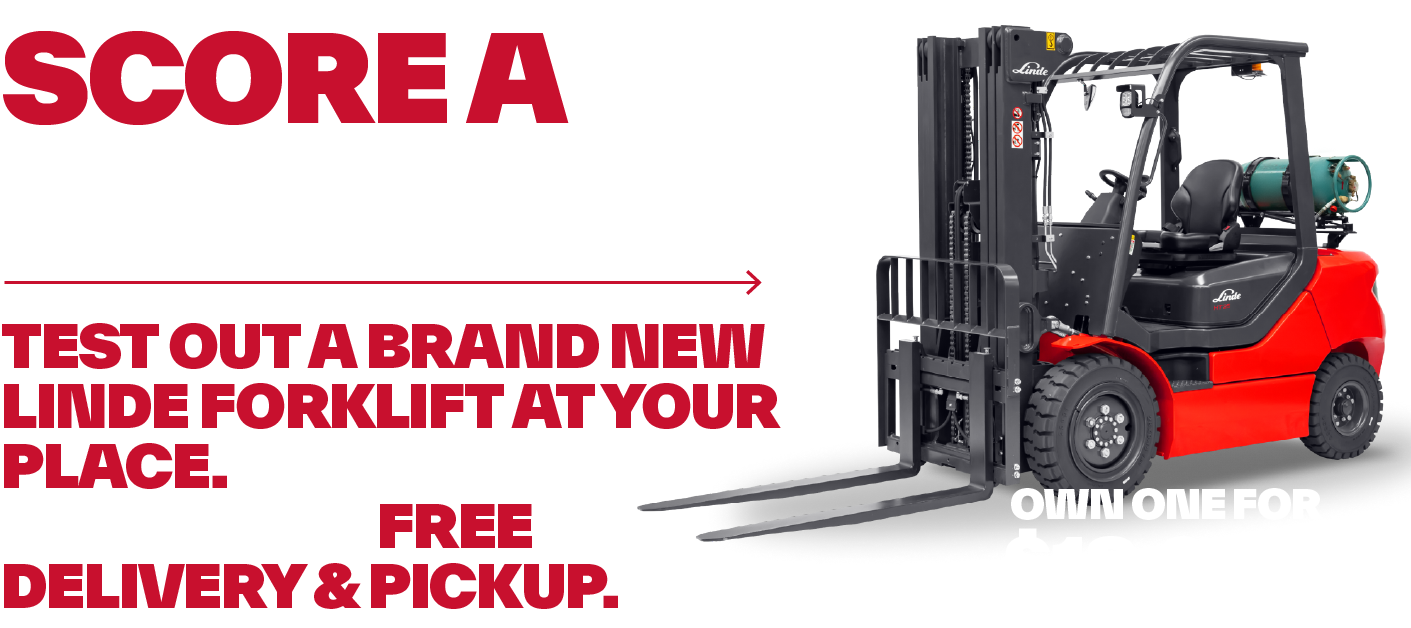
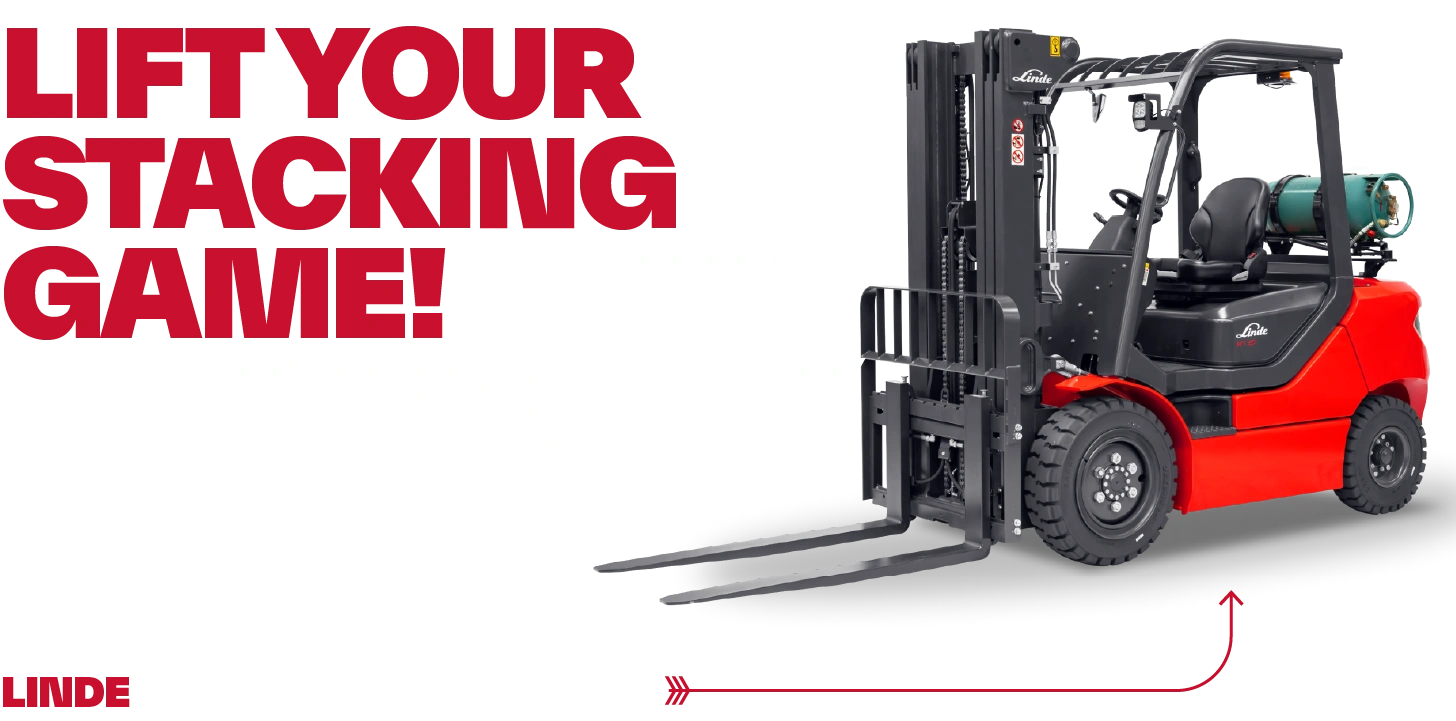
update free trial to price only offer

diff --git a/linde-free-trial.html b/linde-free-trial.html
@@ -160,9 +160,9 @@
                     <section class="semilargerSec rC cC" style=" padding-right: 0; z-index:1;">
                         <span class="spacer spacer15 m"></span>
                         <span class="spacer spacer10"></span>
-                        <h1 class="upperCase d vh7 brand1 fw1000 ">Score a <span class="white">free 2 day trial</span></h1>
+                        <h1 class="upperCase d vh7 brand1 fw1000 ">Own Me <span class="white">For only $18,650</span><span class="white vh1">+GST</span></h1>
 
-                        <h1 class="upperCase m vh6 brand1 fw1000 ">Score a <span class="white">free 2 day trial</span></h1>
+                        <h1 class="upperCase m vh6 brand1 fw1000 ">Own Me <span class="white">For only $18,650</span><span class="white vh1">+GST</span></h1>
                         
                         
                         <span class="spacer spacer4 "></span>
@@ -172,23 +172,11 @@
                         <span class="arrow-line animated delayAnimate1 d" style="transform: translate3d(-3000px, 0, 0);"></span>
                         <span class="spacer spacer5"></span>
 
-                        <h2 class="upperCase vh3 fw1000 balanced brand1"><span class="white">Based In Auckland or Hamilton?</span> Test out a brand new Linde forklift at your place. <span class="white">No strings attached.</span> Free Delivery & Pickup*</h2>
+                        <h2 class="upperCase vh3 fw1000 balanced brand1">Own a premium Linde HT25 forklift at an amazing price. <span class="white">There's never been a better time to lift your stacking game!</span></h2>
 
-                        <br class="m">
-
-                        <h2 class="upperCase vh3 fw1000 balanced m" style="margin-bottom: 4px !important;">Own One For</h2>
-                        <h2 class="vh5 fw1000 m">$18,650<span class="vh1">+GST</span></h2>
-
-                        <p>* Metro areas only, subject to site suitability.</p>
+                        
 
                         <span class="spacer spacer2"></span>
-                        <span class="spacer spacer3 m"></span>
-
-                        <a href="#enquiry" class="ctaButton">Check if your site is eligible</a>
-                        <br class="m">
-                        <span class="spacer spacer2 m"></span>
-                        <span class="d"> &nbsp;&nbsp;&nbsp;</span>Or call us <a href="tel:0800539583" onclick="trackContactClick('/_Contact_0800Number_Mobile','0800 number - Mobile')" class="white"><strong>0800 539 583</strong></a>
-
                         <span class="spacer spacer5"></span>
                     </section>
                     <section class=" rC cC" style="padding-left: 0; padding-right: 0; ">
@@ -202,11 +190,7 @@
                     <img src="/images/2026/plate-run-out/machine-crop.webp" class="animated  delayAnimate" style="transform: translate3d(3000px, 0, 0);">
                 </div>
 
-                <span style="position: absolute; right: 5vw; width: 25vw; bottom:5vw; z-index:1;" class="d">
-                    <h2 class="upperCase vh3 fw1000 balanced" style="margin-bottom: 4px !important;">Own One For</h2>
-                    <h2 class="vh5 fw1000">$18,650<span class="vh1">+GST</span></h2>
-                    <span class="spacer spacer5"></span>
-                </span>
+                
             </div>
         </div>
         <span data-src="/images/2026/plate-run-out/newBg-mob@2x-100.jpg"></span><!-- ph -->
@@ -236,54 +220,58 @@
                     <section class=""><!--  content control -->
                         
                         <div class="longDescription">
-                            <h2 class="brandColor balanced phoneCenter">Try the Linde HT25 on your own site before you commit a cent.</h2>
+                            <h3 class="brandColor balanced phoneCenter">Upgrade to experience the perfect balance of comfort, power, and productivity in one machine.</h3>
                             <br>
 
-                            <h5 class="fw300 phoneCenter">LDX is giving eligible <span class="nowrap">New Zealand</span> businesses a brand-new, 2024-plated Linde 2.5T gas forklift to trial onsite for up to 48 hours — completely free. No rental charges, and no delivery cost to you for the trial. Put it to work in your operation, then decide.</h5>
+                            <h5 class="phoneCenter">Built for excellent handling and reliability, the HT25 offers a load capacity of 2.5 tonnes and is designed to manage heavy loads with ease, whether operating indoors or in demanding outdoor environments.</h5>
                             <br>
 
-                            <h5 class="fw300 phoneCenter">These are run-out units, so pricing is sharp and stock is limited. Trial now and lock in run-out pricing before they're gone.</h5>
-
-                        
+                            <h5 class="phoneCenter">The HT25's responsive performance ensures fast, precise operation, reflecting Linde's commitment to quality engineering and efficiency.</h5>
+                            
                         </div>
 
                         
 
-                        <span class="spacer spacer5"></span>
                 
 
-                        <h2 class="balanceMe phoneCenter">Why try before you buy?</h2>
+                        <h3 class="balanceMe phoneCenter">Need more reasons?</h3>
                         <br><br>
-                        <br>
                         
 
                         <div class="featurette">
                             <div>
                                 <img src="/images/2026/plate-run-out/reason1.svg" style="max-width: 100px;">
                                 <span>
-                                    <h5 class="fw600 brand1" >Prove it before you pay</h5>
-                                    <p style="margin-top: 0;margin-bottom: 0;">Take the guesswork out of your next forklift with an obligation-free onsite trial, supported end-to-end by the LDX team.</p>
+                                    <h5 class="fw600 brand1" >Handling &amp; Performance</h5>
+                                    <p style="margin-top: 0;margin-bottom: 0;">Modern Doosan engine.
+Cast steel steer axle.
+KION Group torque convertor transmission.
+Comprehensive equipment levels to give operators all the tools they need to remain highly productive.</p>
                                 </span>
                             </div>
                             <div>
                                 <img src="/images/2026/plate-run-out/reason2.svg" style="max-width: 100px;">
                                 <span>
-                                    <h5 class="fw600 brand1" >Test it in real conditions</h5>
-                                    <p style="margin-top: 0;margin-bottom: 0;">Run it in your own warehouse or yard and see exactly how it handles your loads, your layout, your shifts.</p>
+                                    <h5 class="fw600 brand1" >Comfort</h5>
+                                    <p style="margin-top: 0;margin-bottom: 0;">Spacious compartment with operator-friendly interface.
+Adjustable Linde teardrop steering wheel to reduce driver shoulder turning and fatigue.
+Ergonomic releasing switch for foot brake.
+Side control lever to improve operational efficiency.
+</p>
                                 </span>
                             </div>
                             <div>
                                 <img src="/images/2026/plate-run-out/reason3.svg" style="max-width: 100px;">
                                 <span>
-                                    <h5 class="fw600 brand1" >Let your operators decide</h5>
-                                    <p style="margin-top: 0;margin-bottom: 0;">The people who'll drive it every day judge the comfort, visibility and control firsthand—so you buy with confidence.</p>
+                                    <h5 class="fw600 brand1" >Safety</h5>
+                                    <p style="margin-top: 0;margin-bottom: 0;">Superb visibility with Linde Clear View Mast which offers best in class visibility as location of components like cylinders, chains and hoses have been optimised to give the operator the best view of the load and travel path.</p>
                                 </span>
                             </div>
                             <div>
                                 <img src="/images/2026/plate-run-out/reason4.svg" style="max-width: 100px;">
                                 <span>
-                                    <h5 class="fw600 brand1" >We handle delivery</h5>
-                                    <p style="margin-top: 0;margin-bottom: 0;">LDX covers delivery and pick-up of the trial machine in Auckland and Hamilton metro areas*—so trialling onsite is genuinely hassle-free.</p>
+                                    <h5 class="fw600 brand1" >New for sub-$20k?!</h5>
+                                    <p style="margin-top: 0;margin-bottom: 0;">These are run-out units, so pricing is sharp and stock is limited. Enquire now and lock in run-out pricing before they're gone.</p>
                                 </span>
                                 
                                 
@@ -300,32 +288,10 @@
 
                     <section class="vertBorder">
 
-                        <img src="/images/logos/br-linde.svg" class="brandLogo" alt="Linde logo" style="margin-left: auto;">
+                    
+
+                        <h3 class="balanceMe brand1">Very limited stock. Act now before they run out!</h3>
                         <br>
-
-                        <img src="/images/2026/plate-run-out/71161.png" style="max-width: 70%; margin: 0px auto;">
-                        <br>
-
-
-                        <h3 class="brandColor balanceMe phoneCenter">HT25-HT35 B Series 1289 Engine Forklift</h3>
-                        <br>
-
-                        <h5 class="phoneCenter balanced">2.5-3.5 tonne capacity. Indoor or outdoor. Built for heavy, everyday material handling.</h5>
-                        <br>
-                        
-
-                        <p class="phoneCenter balanced">Your operators judge the visibility, comfort and handling for themselves—on your floor, with your loads. Responsive, precise, and reliable shift after shift.</p>
-
-
-
-
-
-                        
-                        <hr name="enquiry">
-                        
-
-                        <h3 class="balanceMe">Book your FREE trial</h3>
-                        <p>No obligation. We'll confirm your eligibility within 1 business day.</p>
                         <br>
                         
                             <form>
@@ -422,7 +388,7 @@
                                     <br>
                                                                 
                                     <div class="submitW">
-                                        <input type="submit" value="Book my free trial →" class="ctaButton button">
+                                        <input type="submit" value="I'm interested! →" class="ctaButton button">
                                     </div>
 
                                     <br>
@@ -459,7 +425,7 @@
 
                     <section class="noPadTop"><!--  content control -->
                     
-                        
+                        <!-- 
 
                         <h6>* Terms & Conditions</h6>
  
@@ -480,7 +446,7 @@
                         <br>
                         <br>
 
-
+-->
 
                         
 
